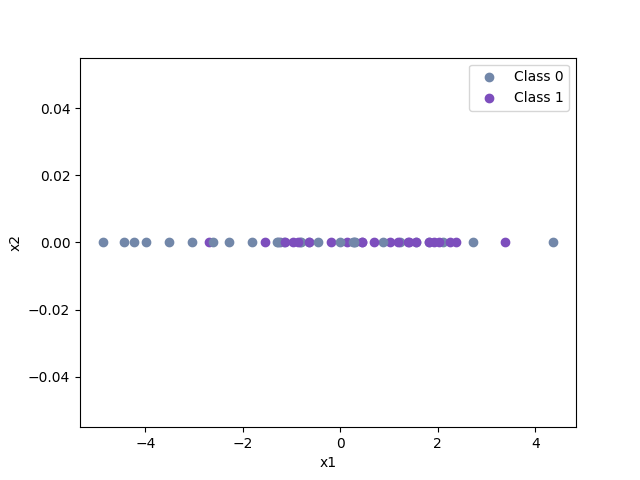
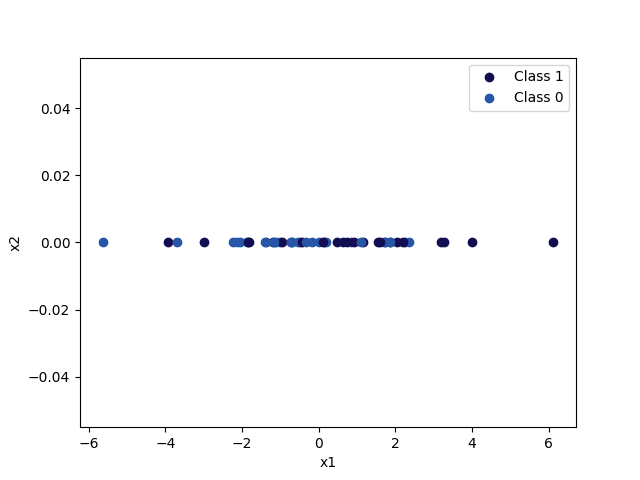
Assignment 2 ✅

diff --git a/02_classification/template.py b/02_classification/template.py
@@ -13,6 +13,9 @@ from scipy.stats import norm # Old was from scipy.stats import multivariate_norm
 # The random seed used by the course to make all the randomness the same
 RANDOM_SEED = 1234
 
+# Reset random seed
+np.random.seed(RANDOM_SEED)
+
 def gen_data(
     n: int,
     locs: np.ndarray,
@@ -103,7 +106,6 @@ def mean_of_class(
         class_mean[j] = class_mean[j]/n_class_instances
 
     return class_mean
-
     
 def covar_of_class(
     features: np.ndarray,
@@ -146,7 +148,6 @@ def covar_of_class(
 
     # Return class_covar
     return class_covar
-
 
 def likelihood_of_class(
     feature: np.ndarray,
@@ -220,7 +221,7 @@ def maximum_likelihood(
 def predict(likelihoods: np.ndarray) -> np.ndarray:
     '''
     Given an array of shape [num_datapoints x num_classes]
-    make a prediction for each datapoint by choosing the
+    make a prediction for which class each datapoint belongs to by choosing the
     highest likelihood.
 
     likelihoods:    The maximum likelihood for each test point as found in maximum_likelihood
@@ -257,6 +258,35 @@ def predict(likelihoods: np.ndarray) -> np.ndarray:
     # Return predictions
     return predictions
 
+def predict_accuracy(predictions: np.ndarray, targets: np.ndarray)   -> float:
+    '''
+    Compares how many of the predictions were correct, n_correct, returns n_correct / n_targets
+    Note: the shape of the inputs must be the same.
+    
+    predictions:    The class predictions
+    targets:        The actual correct classes for each datapoint
+    
+    returns accuracy unless inputs are not the same shape, then return None
+    '''
+    # Validate inputs to be of same shape, if not, return None
+    if predictions.shape[0] != targets.shape[0]:
+        return None
+    
+    # init n_correct
+    n_correct = 0
+    
+    # Find number of data_points, n_targets
+    n_targets = targets.shape[0]
+    
+    # Loop through each data point and compare them
+    for i in range(n_targets):
+        # Compare prediction against target, if the prediction and the target are the same class, increase n_correct by 1
+        if predictions[i] == targets[i]:
+            n_correct = n_correct + 1
+
+    # Return accuracy
+    return n_correct/n_targets
+
 # Felt cute, might delete maximum_aposteriori later
 def maximum_aposteriori(
     train_data: np.ndarray,
@@ -275,7 +305,6 @@ def maximum_aposteriori(
     '''
     ...
 
-
 # Test area
 # -----------------------------------------------------
 if __name__ == '__main__':
@@ -286,11 +315,11 @@ if __name__ == '__main__':
     n_data_points = 50
     means = np.array([-1, 1])
     std_devs = np.array([np.sqrt(5), np.sqrt(5)])
-    n_classes = 3   # Assume 3 classes since no place in the assignment instructions gives an idea for how many classes there are
-    # Create data points, targets and classes
+    n_classes = means.shape[0]
     data_points, targets, classes = gen_data(n_data_points, means, std_devs) #, n_classes) # load_iris()    # Example: load_data(2, [0, 2], [4, 4]) not working
-    # Split data    
-    (train_data, train_targets), (test_data, test_targets) = split_train_test(data_points, targets, train_ratio=0.8)
+    # Split data
+    train_ratio = 0.8
+    (train_data, train_targets), (test_data, test_targets) = split_train_test(data_points, targets, train_ratio)
 
     '''
     if (train_data, train_targets, 0).all() == np.array([5.005, 3.4425, 1.4625, 0.2575]).all():
@@ -364,11 +393,93 @@ if __name__ == '__main__':
 
     # Part 7
     print("Part 7 - Predict likelihoods")
-    likelihood_prediction = predict(max_likelihood.transpose())
-    print(likelihood_prediction)
+    class_prediction = predict(max_likelihood.transpose())
+    print(class_prediction)
 
     # Part 8
-    print("Part 8")
+    print("Part 8 - Comparison")
+    # Create a new dataset with 50 datapoints and N (−4 , sqrt(2)) and N(4 ,sqrt(2)).
+    n_data_points_8 = 50
+    means_8 = np.array([-4, 4])
+    std_devs_8 = np.array([np.sqrt(2), np.sqrt(2)])
+    data_points_8, targets_8, classes_8 = gen_data(n_data_points_8, means_8, std_devs_8)
+    '''
+    (Question A) Compare the accuracy of both datasets, if the results are different, what explains the difference?
+    Play around with the number of datapoints, the mean and standard deviation of the normal distributions.
+    '''
+    # To compare the accuracy, we must first measure the accuracy of the first dataset, then calculate the accuracy for the new dataset and then compare
+    acc1 = predict_accuracy(class_prediction, test_targets)
+    print("Accuracy for old dataset: " + str(acc1*100) + "%")
+    
+    # Find accuracy for data from section 8
+    # Split data
+    (train_data_8, train_targets_8), (test_data_8, test_targets_8) = split_train_test(data_points_8, targets_8, train_ratio)
+    print("New dataset test_targets: " + str(test_targets_8))
+
+    # Find mean
+    given_class_8 = 0
+    class_mean_8 = mean_of_class(train_data_8, train_targets_8, given_class_8)
+
+    # Find covariance
+    given_class_8 = 0
+    class_cov_8 = covar_of_class(train_data_8, train_targets_8, given_class_8)
+
+    # Find class likelihood
+    class_likelihood_8 = likelihood_of_class(test_data_8[0, :], class_mean_8, class_cov_8)
+
+    # Find max likelihood
+    max_likelihood_8 = maximum_likelihood(train_data_8, train_targets_8, test_data_8, classes_8)
+
+    # Predict classes
+    class_prediction_8 = predict(max_likelihood_8.transpose())
+    print("New dataset class predictions: " + str(class_prediction_8))
+
+    # Find accuracy of predictions from section 8
+    acc8 = predict_accuracy(class_prediction_8, test_targets_8)
+    print("Accuracy for new dataset: " + str(acc8*100) + "%")
+    diff = 100*(acc8-acc1)
+    if diff == 0:
+        diff_str = "Is exactly the same as from the old dataset"
+    elif diff < 0:
+        diff_str = "Is {:.2f}% less than from the old dataset".format(-diff)
+    else:
+        diff_str = "Is {:.2f}% more than from the old dataset".format(diff)
+
+    print(diff_str)
+    
+    '''
+    (Question B) What happens when you change the:
+        number of datapoints
+        mean of the normal distributions
+        standard deviation of the normal distributions
+    Explain in a few words how and why each of these affect the accuracy of your model
+    '''
+
+    print("Writing to 8_1.txt file")
+    text_answer = \
+        "For part A:\n\
+            The results were different, the accuracy for the new data was 100%, 40% more than the accuracy for the old data.\n\
+            For part B:\n\
+            When I increased the number of data points for the old dataset to 500 instead of 50, the accuracy went up to 71% and was only 29% less\
+            than the new dataset.\n\
+            But when I reduced the number of points for the new set to 25, the accuracy was still 100%.\n\
+            Changing the new mean to -2 and +2 resulted in an accuracy of 70% for the new dataset but in that case the old one got 80% accuracy.\n\
+            I expected the standard deviation to have the most effect so I increased it to sqrt(10) for the new dataset, expecting lower accuracy.\n\
+            but ended up with 90% accuracy that time and 80% for the old dataset.\n\
+            To explain why these things happen I think I would need to do this very often or with the same randomness every time.\n\
+            Realising I forgot to set the random seed in the beginning of my code I run it again and default to the old acc being 80% and the new being 70%.\n\
+            With 500 old data points, new std_dev at sqrt(10), the old acc is 62% and the new 90%.\n\
+            With the new mean being -2 and +2, new std_dev at sqrt(10), the old acc is 80% still and the new acc stayed at 70%.\n\
+            With the new std_dev at sqrt(2) the old acc is 80% still and the new acc is 100%.\n\
+            That's in line with my expectations that lower deviation results in higher accuracy, probably because the classes don't overlap as much, meaning the maximum likelihood is likelier to be correct.\n\
+            The same is applicable to the mean, if the means are further from each other then it's unlikelier that the deviation will cause the values to overlap.\n\
+            I'm starting to think https://en.meming.world/images/en/a/aa/Something_of_a_Scientist.jpg\n\n\
+            Note: About the submission, now that I've updated the data_gen function to be in accordance with how I was told to have it, the gradescope gives me errors about not having enough values to unpack things.\n\
+            This was not a problem in my previous version which had n_classes as an input for the gen_data function.\n\
+            Note: For next year, add more explicitness about the number of classes and number of columns in the features array there should be."
+    with open('.\\Gagnanam-og-vitvelar-2024 git repo\\02_classification\\8_1.txt', 'w') as f:
+        f.write(str(text_answer))
+    print("File updated")
 
 
     # Confirmation message for a succesful run
